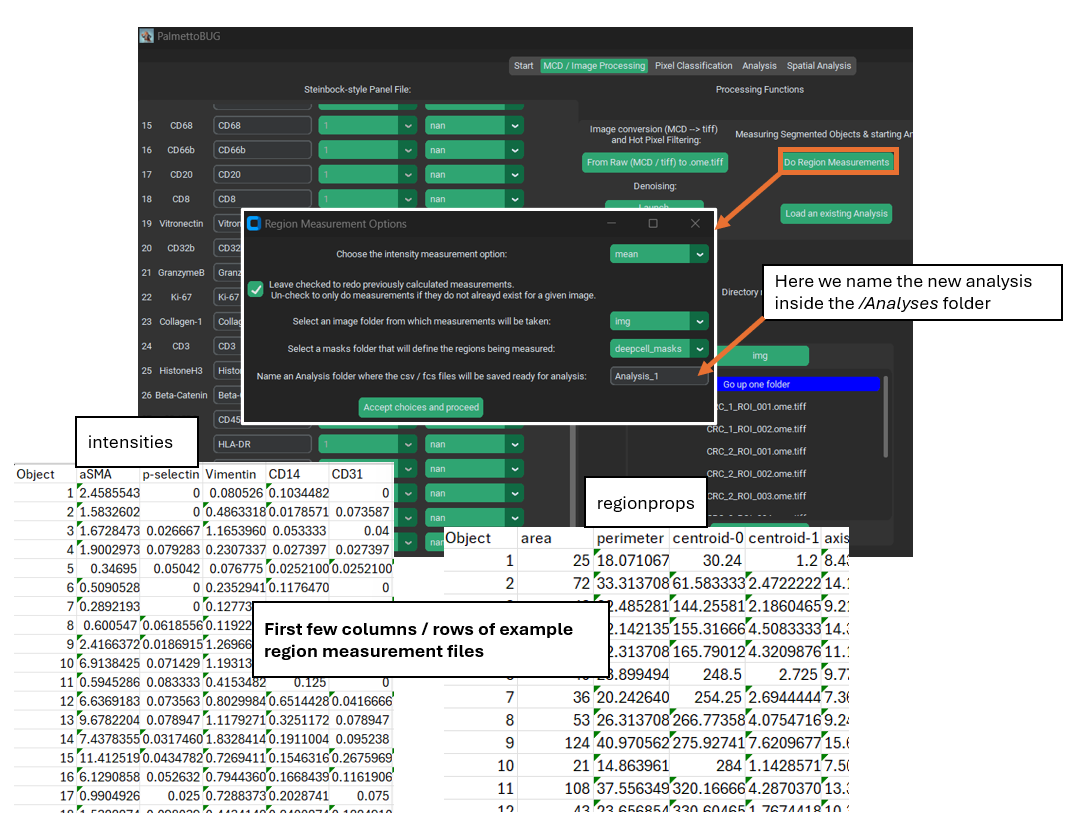
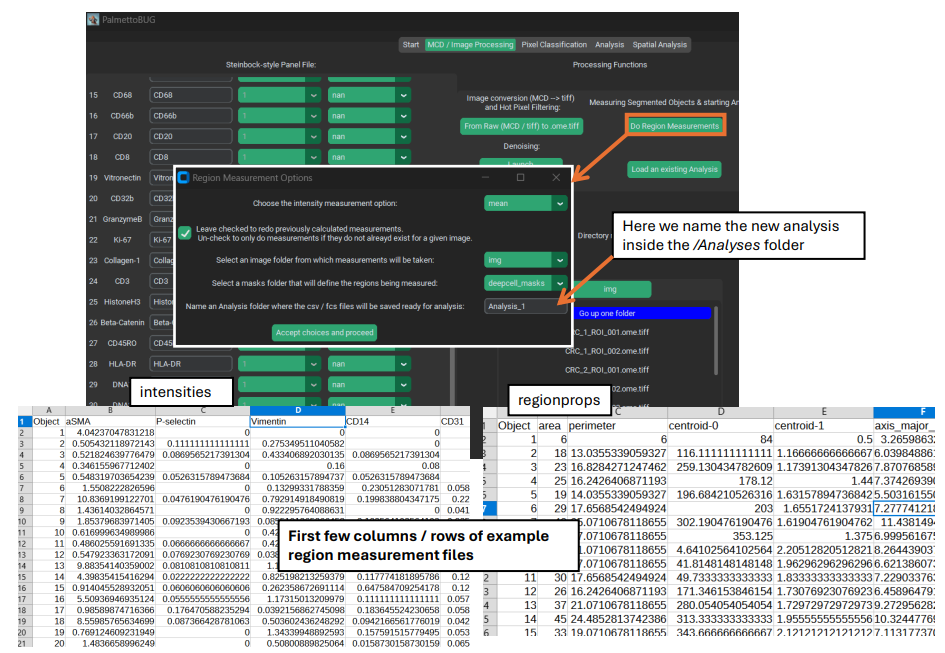
export adds centroids, areas. CSV reload areas, centroids

diff --git a/palmettobug/Analysis_functions/Analysis.py b/palmettobug/Analysis_functions/Analysis.py
@@ -401,7 +401,7 @@ class Analysis:
         marker_class_included = False
         marker_class = data.copy().iloc[-1,:]
         if np.array(marker_class == "na").sum() != 0: 
-            marker_class_dict_rev = {"0.0" : 'none', "1.0" : 'type', "2.0" : ' state', "3.0" : "spatial_edt"}
+            marker_class_dict_rev = {"0.0" : 'none', "1.0" : 'type', "2.0" : ' state', "3.0" : "spatial_edt", "4.0":"other"}
             marker_class = marker_class[marker_class != "na"].astype('str').replace(marker_class_dict_rev)
             data = data.iloc[:-1, :]
             marker_class_included = True
@@ -495,6 +495,17 @@ class Analysis:
         self.data.obs["patient_id"] =  self.data.obs["patient_id"].astype("category")
         self.data.obs["condition"] =  self.data.obs["condition"].astype("category")
         self.data.obs = self.data.obs.reset_index().drop("index", axis = 1)
+
+        try:
+            self.data.uns['areas'] = data['areas'] 
+            cent_X = np.asarray(data['centroid_X'])
+            cent_Y = np.asarray(data['centroid_Y])
+            obsm = np.zeros([2, len(cent_X)])
+            obsm[0] = cent_X
+            obsm[1] = cent_Y
+            self.data.obsm['spatial'] = obsm_key
+        except Exception:
+            pass
 
     def load_regionprops(self, 
                          regionprops_directory: Union[Path, str, None] = None, 
@@ -3377,12 +3388,23 @@ class Analysis:
         ## anndata to pd.DataFrame:
         data_points = pd.DataFrame(data.X)
         data_points.columns = data.var.index.astype('str')
+
+        to_add = []
         if (include_marker_class_row is True) & (groupby_columns is None):
             data_points = data_points.T
-            marker_class_dict = {'none' : 0, 'type' : 1, 'state' : 2, 'spatial_edt' : 3}     # so not mixed type on read
+            marker_class_dict = {'none' : 0, 'type' : 1, 'state' : 2, 'spatial_edt' : 3, 'other': 4}     # so not mixed type on read
             data_points['marker_class'] = list(data.var['marker_class'])
             data_points['marker_class'] = data_points['marker_class'].replace(marker_class_dict)
             data_points = data_points.T
+            to_add = [4]
+
+        if groupby_columns is None:
+            try:
+                data_points["centroid_X"] = list(self.data.obsm['spatial'].T[0]) + to_add
+                data_points["centroid_Y"] = list(self.data.obsm['spatial'].T[1]) + to_add
+                data_points["areas"] = list(self.data.uns['areas']) + to_add
+            except Exception:
+                pass
 
         data.obs.columns = data.obs.columns.astype('str')
         data_col_list = [i for i in data.obs.columns]
@@ -3392,11 +3414,12 @@ class Analysis:
             else:
                 data_points[str(i)] = list(data.obs[str(i)])
             data.obs[i] = data.obs[i].astype('str')
-
+                
         if self._scaling == "%quantile":
             data_points['scaling'] = str(self._scaling) + str(self._quantile_choice)
         else:
             data_points['scaling'] = self._scaling
+
         if (include_marker_class_row is True) & (groupby_columns is None):
             data_points.loc[data_points.index[-1],'scaling'] = "na"
         

diff --git a/palmettobug/Analysis_widgets/Analysis_GUI.py b/palmettobug/Analysis_widgets/Analysis_GUI.py
@@ -115,15 +115,10 @@ class Analysis_py_widgets(ctk.CTkFrame):
         self.classy_masker.configure(state = 'normal')
         regionprops_directory = self.cat_exp.directory[:-4] + "/regionprops/"
         try:
-            roi_areas = os.listdir(regionprops_directory)   ## TODO: Fix this -- it is not working.
-            if len(roi_areas) > 0:
-                self.region.configure(state = 'normal')
-                regions = True
-            else:
-                print('no files in the regionprops directory -- spatial analysis for this data will be unavailable')
-                regions = False
+            self.cat_exp.data.uns['areas']
+            self.cat_exp.data.obsm['spatial'].T[1]
         except Exception:
-            print("No regionprops directory -- spatial analysis for this data will not be available.")
+            print('Cell centroids and/or areas not found -- spatial analysis for this data will be unavailable')
             regions = False
 
         self.analysis_bank.initialize_buttons()
